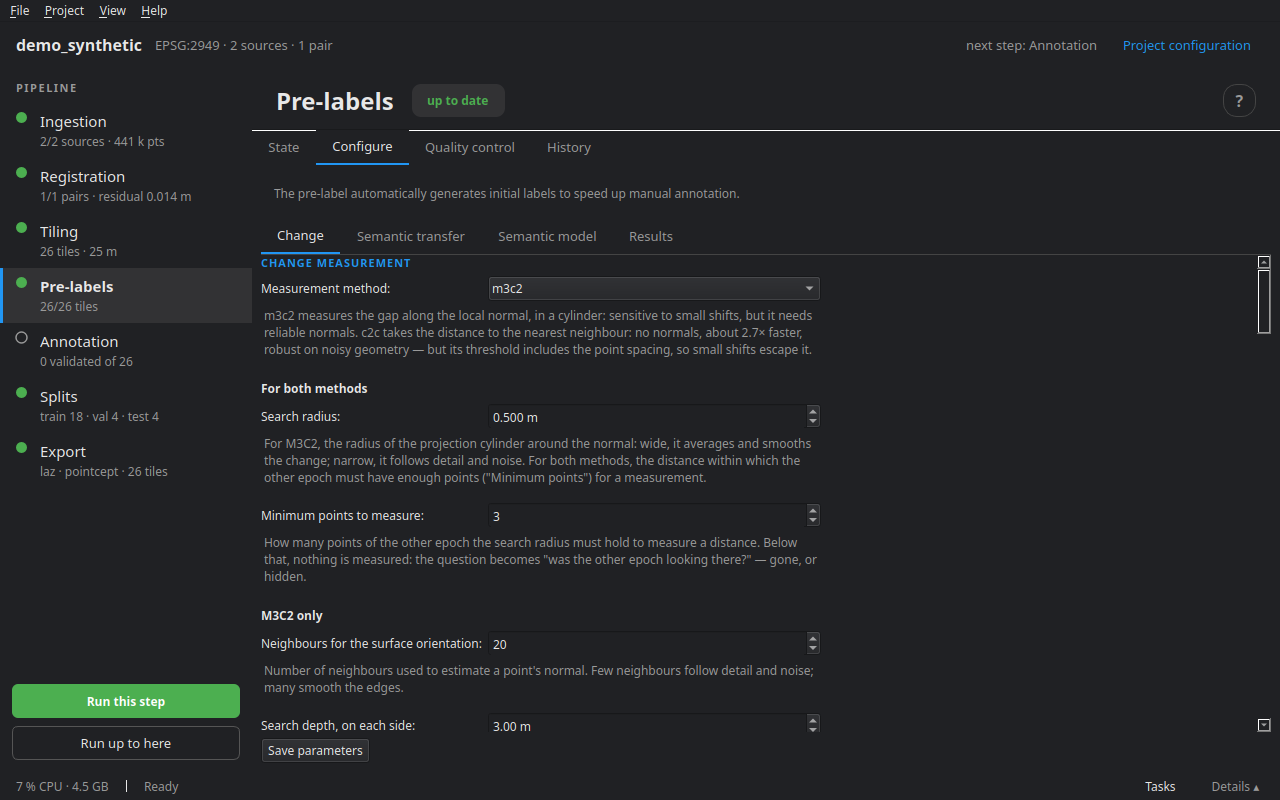
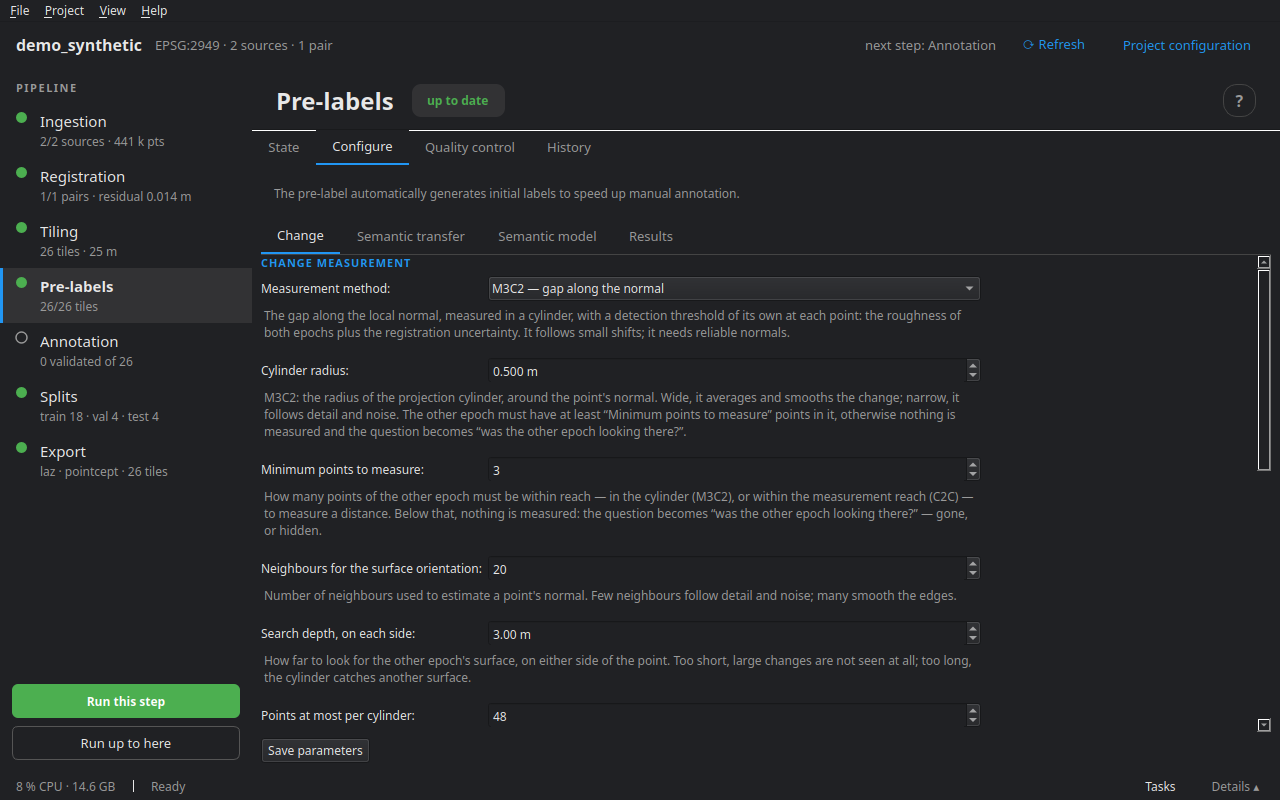
cdforge 0.1.6

diff --git a/docs/guide/06_prelabel.md b/docs/guide/06_prelabel.md
@@ -8,7 +8,7 @@ Le détail complet de la décision de changement, réglage par réglage, est dan
 
 Chaque époque est étiquetée à son tour contre l'autre, **avec exactement le même code** : les points de t0 sortent *unchanged*, *removed* ou *unobserved* ; ceux de t1, *unchanged*, *added* ou *unobserved*. Pour un point de l'époque A, face à l'autre époque B :
 
-1. **Mesurer** — B a-t-il au moins `min_pts` points en face, dans le rayon de recherche ?
+1. **Mesurer** — B a-t-il au moins `min_pts` points en face : dans le cylindre du point (M3C2), ou à portée de la mesure (C2C) ?
 2. Si oui, **la distance décide** : au-dessus du seuil, le point a changé (*added* ou *removed*) ; en dessous, il est *unchanged*.
 3. Si non, la question devient **« B regardait-il cet endroit ? »** — oui : l'objet a disparu (ou est apparu) ; non : *unobserved*, un angle mort où rien n'est décidable.
 4. **Nettoyage** — un amas de points changés plus petit que `min_cluster` est remis à *unchanged* : un vrai changement a une étendue.
@@ -19,7 +19,7 @@ Chaque époque est étiquetée à son tour contre l'autre, **avec exactement le 
 
 **M3C2** (par défaut) mesure l'écart le long de la normale locale, dans un cylindre, et calcule un **seuil de détection par point** (LoD95) à partir de la rugosité des deux nuages et de l'erreur de recalage. Sensible aux petits déplacements, il lui faut des normales fiables. La règle **même surface** ne garde, dans le cylindre d'un point plan, que les voisins orientés comme lui : le cylindre d'un point de sol n'attrape plus le mur voisin.
 
-**C2C** prend la distance au plus proche voisin : pas de normales, environ 2,7 fois plus rapide, robuste sur une géométrie bruitée ou éparse. Son seuil, en automatique, vaut 1,96 × l'erreur de recalage **plus l'espacement des points** — deux relevés d'une même surface ne tombent jamais pile l'un sur l'autre — donc les petits déplacements lui échappent. On peut aussi le **fixer à la main**.
+**C2C** prend la distance au plus proche voisin : pas de normales, environ 2,7 fois plus rapide, robuste sur une géométrie bruitée ou éparse. Son seuil, en automatique, vaut 1,96 × l'erreur de recalage **plus l'espacement des points** — deux relevés d'une même surface ne tombent jamais pile l'un sur l'autre — donc les petits déplacements lui échappent. On peut aussi le **fixer à la main**. La distance mesurée ne dépasse jamais la **portée de la mesure** — au-delà, rien n'est mesuré, et la couverture ou les rayons répondent : un seuil égal ou supérieur à la portée n'est donc jamais franchi, et le formulaire le signale.
 
 ### « B regardait-il cet endroit ? »
 
@@ -45,19 +45,22 @@ Quatre sous-onglets.
 
 **Changement**
 
-- *Mesure du changement* : la méthode, puis trois groupes — **pour les deux méthodes** (rayon de recherche, points minimum pour mesurer), **M3C2 seulement** (voisins pour l'orientation de la surface, profondeur de recherche, points au plus par cylindre, même surface : angle et planéité), **C2C seulement** (seuil de changement, auto ou fixé). Ce qui ne sert pas à la méthode choisie est grisé.
-- *Ce que l'autre époque observait* : les trois portions de la couverture, puis les rayons — quand en lancer, taille des voxels, points de vue essayés et leur écart, portée, ce qu'on ignore autour du capteur et autour du point, ce que les rayons ont le droit de changer.
-- *Nettoyage* : plus petit changement gardé, distance de regroupement.
-- *Incertitude du recalage* : la NMAD du recalage (auto) ou une valeur.
+- *Mesure du changement* : la méthode, avec ce qu'elle mesure, puis **seulement ses réglages** — le rayon du cylindre (M3C2) ou la portée de la mesure (C2C), et les points minimum pour mesurer ; pour M3C2, les voisins pour l'orientation de la surface, la profondeur de recherche, les points au plus par cylindre, et la même surface (angle et planéité) ; pour C2C, le seuil de changement, auto ou fixé. Sous le seuil, ce que vaut l'auto sur ce projet — estimé d'après le recalage et l'espacement des points, puis mesuré au dernier passage — et un avertissement quand le seuil atteint la portée de la mesure. Changer de méthode change les champs affichés ; les valeurs de l'autre méthode restent enregistrées.
 - *Exécution* : le moteur des voisinages (Rust s'il est installé) et le nombre de tuiles en parallèle — des choix de cette exécution, pas des réglages du projet.
+- *Réglages avancés*, repliés par défaut, et dépliés d'office si l'un d'eux s'écarte de sa valeur par défaut ; le bouton du pli dit combien le sont :
+  - *Ce que l'autre époque observait* : les trois portions de la couverture, puis les rayons — quand en lancer, taille des voxels, points de vue essayés et leur écart, portée, ce qu'on ignore autour du capteur et autour du point, ce que les rayons ont le droit de changer. En tête des rayons, les sources qui ont une trajectoire lisible ; sans aucune, les réglages des rayons sont grisés — une trajectoire se déclare par source, dans Ingestion ▸ Catalogue ;
+  - *Nettoyage* : plus petit changement gardé, distance de regroupement ;
+  - *Incertitude du recalage* : la NMAD du recalage (auto — la case dit ce qu'elle vaut sur ce projet) ou une valeur fixée.
 
-Sous chaque champ, ce qu'il fait. **Revenir aux valeurs par défaut** remet l'onglet à zéro sans rien écrire ; **Enregistrer les paramètres** écrit `project.yaml`.
+  Les réglages chiffrés des rayons et du nettoyage portent une case : **décochée**, le champ est grisé et c'est la valeur par défaut qui s'applique ; **cochée**, votre valeur est prise en compte. Décocher remet la valeur par défaut. Les cases de la couverture, elles, gardent leur sens : décochée, la portion ne compte plus.
 
-**Transfert sémantique** — l'activer, et le nombre de voisins du vote.
+Sous chaque champ, ce qu'il fait. **Revenir aux valeurs par défaut** remet l'onglet à zéro sans rien écrire ; **Enregistrer les paramètres** écrit `project.yaml`. Tant que le formulaire diffère du fichier, « Modifications non enregistrées » s'affiche à côté du bouton, et **Exécuter cette étape** les enregistre avant de lancer. Un enregistrement refusé — une valeur invalide — ne lance rien, et la raison s'affiche au même endroit.
 
-**Modèle sémantique** — le modèle géométrique (activer, voisinage, sol, seuils des objets) et le catalogue des modèles d'apprentissage profond (voir [Modèles sémantiques](07_ia.md)).
+**Transfert sémantique** — coupé par défaut : il recopie ce que porte l'autre époque, juste ou faux, sur tout ce qui n'a pas bougé. À rallumer quand une époque porte des labels humains. Le nombre de voisins du vote se grise tant qu'il est coupé.
 
-**Résultats** — ce qu'a produit le dernier pré-label : les labels de changement de t0 et t1, la part décidée par les rayons et par la couverture, et les points où le rayon a conclu autrement que la couverture.
+**Modèle sémantique** — le catalogue des modèles d'apprentissage profond (voir [Modèles sémantiques](07_ia.md)), puis le modèle géométrique : l'activer, et ses **seuils de décision**, repliés et rangés par règle — voisinage, sol, poteau, bâti, végétation, dans l'ordre où les règles s'appliquent. Chacun est expliqué sous son champ et porte une case, comme les réglages avancés ; **Réinitialiser les seuils** les remet aux valeurs par défaut, celles qui ont donné les chiffres annoncés.
+
+**Résultats** — ce qu'a produit le dernier pré-label : la mesure employée et, en C2C, le seuil appliqué (auto : médiane et étendue sur les tuiles ; ou fixé), les labels de changement de t0 et t1, la part décidée par les rayons et par la couverture, et les points où le rayon a conclu autrement que la couverture.
 
 ## L'onglet Contrôle qualité
 

diff --git a/docs/guide/en/06_prelabels.md b/docs/guide/en/06_prelabels.md
@@ -8,7 +8,7 @@ The full detail of the change decision, setting by setting, is in **Help ▸ [Ho
 
 Each epoch is labelled in turn against the other, **with exactly the same code**: t0 points come out *unchanged*, *removed* or *unobserved*; t1 points, *unchanged*, *added* or *unobserved*. For a point of epoch A, facing the other epoch B:
 
-1. **Measure** — does B have at least `min_pts` points facing it, within the search radius?
+1. **Measure** — does B have at least `min_pts` points facing it: in the point's cylinder (M3C2), or within the measurement reach (C2C)?
 2. If so, **the distance decides**: above the threshold, the point has changed (*added* or *removed*); below it, it is *unchanged*.
 3. If not, the question becomes **"was B looking at this spot?"** — yes: the object disappeared (or appeared); no: *unobserved*, a blind spot where nothing can be decided.
 4. **Cleaning** — a cluster of changed points smaller than `min_cluster` is reset to *unchanged*: a real change has an extent.
@@ -19,7 +19,7 @@ Each epoch is labelled in turn against the other, **with exactly the same code**
 
 **M3C2** (default) measures the gap along the local normal, in a cylinder, and computes a **per-point detection threshold** (LoD95) from the roughness of both clouds and the registration error. Sensitive to small displacements, it needs reliable normals. The **same surface** rule keeps, in the cylinder of a planar point, only the neighbours oriented like it: a ground point's cylinder no longer catches the neighbouring wall.
 
-**C2C** takes the distance to the nearest neighbour: no normals, about 2.7 times faster, robust on noisy or sparse geometry. On auto, its threshold is 1.96 × the registration error **plus the point spacing** — two surveys of the same surface never land exactly on top of each other — so small displacements escape it. It can also be **set by hand**.
+**C2C** takes the distance to the nearest neighbour: no normals, about 2.7 times faster, robust on noisy or sparse geometry. On auto, its threshold is 1.96 × the registration error **plus the point spacing** — two surveys of the same surface never land exactly on top of each other — so small displacements escape it. It can also be **set by hand**. The measured distance never exceeds the **measurement reach** — beyond it, nothing is measured, and coverage or rays answer: a threshold equal to or above the reach is therefore never crossed, and the form flags it.
 
 ### "Was B looking at this spot?"
 
@@ -45,19 +45,22 @@ Four sub-tabs.
 
 **Change**
 
-- *Change measurement*: the method, then three groups — **for both methods** (search radius, minimum points to measure), **M3C2 only** (neighbours for the surface orientation, search depth, maximum points per cylinder, same surface: angle and planarity), **C2C only** (change threshold, auto or set). What does not apply to the chosen method is greyed out.
-- *What the other epoch observed*: the three parts of coverage, then rays — when to cast them, voxel size, viewpoints tried and their spacing, range, what to ignore around the sensor and around the point, what rays are allowed to change.
-- *Cleaning*: smallest change kept, clustering distance.
-- *Registration uncertainty*: the registration NMAD (auto) or a value.
+- *Change measurement*: the method, with what it measures, then **only its settings** — the cylinder radius (M3C2) or the measurement reach (C2C), and the minimum points to measure; for M3C2, the neighbours for the surface orientation, the search depth, the maximum points per cylinder, and the same surface (angle and planarity); for C2C, the change threshold, auto or set. Under the threshold, what auto is worth on this project — estimated from the registration and the point spacing, then measured on the last run — and a warning when the threshold reaches the measurement reach. Switching methods switches the fields shown; the other method's values stay saved.
 - *Execution*: the neighbourhood engine (Rust when installed) and the number of tiles in parallel — choices for this run, not project settings.
+- *Advanced settings*, folded by default, and unfolded on their own when one of them differs from its default; the fold's button says how many do:
+  - *What the other epoch observed*: the three parts of coverage, then rays — when to cast them, voxel size, viewpoints tried and their spacing, range, what to ignore around the sensor and around the point, what rays are allowed to change. At the top of the rays, the sources that have a readable trajectory; with none, the ray settings are greyed out — a trajectory is declared per source, in Ingestion ▸ Catalogue;
+  - *Cleaning*: smallest change kept, clustering distance;
+  - *Registration uncertainty*: the registration NMAD (auto — the box says what it is worth on this project) or a fixed value.
 
-Under each field, what it does. **Restore defaults** resets the tab without writing anything; **Save parameters** writes `project.yaml`.
+  The numeric settings for rays and cleaning have a box: **unchecked**, the field is greyed out and the default value applies; **checked**, your value is used. Unchecking restores the default. The coverage boxes keep their meaning: unchecked, that part no longer counts.
 
-**Semantic transfer** — switch it on, and the number of neighbours in the vote.
+Under each field, what it does. **Restore defaults** resets the tab without writing anything; **Save parameters** writes `project.yaml`. While the form differs from the file, “Unsaved changes” shows next to the button, and **Run this step** saves them before running. A refused save — an invalid value — runs nothing, and the reason shows in the same place.
 
-**Semantic model** — the geometric model (enable, neighbourhood, ground, object thresholds) and the catalogue of deep-learning models (see [Semantic models](07_ai.md)).
+**Semantic transfer** — off by default: it copies what the other epoch carries, right or wrong, onto everything that did not move. Switch it back on when an epoch carries human labels. The number of neighbours in the vote is greyed out while it is off.
 
-**Results** — what the last pre-labelling produced: the change labels of t0 and t1, the share decided by rays and by coverage, and the points where the ray concluded otherwise than coverage.
+**Semantic model** — the catalogue of deep-learning models (see [Semantic models](07_ai.md)), then the geometric model: switch it on, and its **decision thresholds**, folded and grouped by rule — neighbourhood, ground, pole, building, vegetation, in the order the rules apply. Each one is explained under its field and has a box, like the advanced settings; **Reset the thresholds** puts back the defaults, the ones behind the figures quoted.
+
+**Results** — what the last pre-labelling produced: the measurement used and, for C2C, the threshold applied (auto: median and range over the tiles; or set), the change labels of t0 and t1, the share decided by rays and by coverage, and the points where the ray concluded otherwise than coverage.
 
 ## The Quality control tab
 

diff --git a/docs/guide/07_ia.md b/docs/guide/07_ia.md
@@ -10,15 +10,31 @@ Le catalogue ne liste que des modèles que cdforge sait **réellement lancer**, 
 
 | Modèle | Groupe | Pour quelles données |
 |---|---|---|
+| **LitePT-S · nuScenes** | prêt à l'emploi | lidar mobile ou embarqué, scène routière : les 16 classes de PTv3 nuScenes, avec un réseau 3,6 fois plus petit |
+| **LitePT-S · Waymo** | prêt à l'emploi | la même scène en 22 classes, les plus fines : tronc et feuillage, panneau et mât, bordure et trottoir |
 | **PTv3 · nuScenes** | prêt à l'emploi | lidar mobile ou embarqué, scène routière : 16 classes — surface roulable, trottoir, terrain, végétation, huit sortes de véhicules, piétons, cônes, barrières, et *manmade* pour tout le bâti |
 | **3dsem · DALES** (avec hauteur au sol) | aérien | lidar aéroporté : 7 classes — conseillé en premier |
 | **3dsem · DALES** | aérien | le même sans la hauteur au-dessus du sol |
 | **3dsem · IEEE** | aérien | aéroporté peu dense : 5 classes, dont l'eau et les ponts |
 | **3dsem · H3D** | aérien | photogrammétrie colorée : 8 classes |
+| **PTv3 · ScanNet**, **LitePT-S · ScanNet** | intérieur | pièces relevées avec la couleur : 20 classes (murs, sol, mobilier) |
+| **PTv3 · ScanNet200** | intérieur | les mêmes pièces en 200 classes d'objets |
+| **PTv3 · S3DIS** | intérieur | bâtiment tertiaire : 13 classes, la structure plus que le mobilier |
+| **LitePT · Structured3D** (S, B, L) | intérieur | logements : 25 classes, plafond et structure compris |
 
 Pour chaque modèle, la fiche dit sur quoi il a été entraîné, ce qu'il sort, son score publié, ses limites sur vos données et quand le choisir. Un modèle entraîné ailleurs se charge avec **Choisir un fichier local…** : son chemin remplace le téléchargement.
 
-**Télécharger les poids** les place dans le cache de cdforge ; **Vérifier l'empreinte** les compare au SHA-256 attendu. Les modèles 3dsem s'installent avec leur propre environnement (**Installer avec 3dsem**).
+**Télécharger les poids** les place dans le cache de cdforge ; **Vérifier l'empreinte** les compare au SHA-256 attendu. Pour LitePT, le premier téléchargement apporte aussi le code du réseau (son propre dépôt, une version épinglée et vérifiée). Les modèles 3dsem s'installent avec leur propre environnement (**Installer avec 3dsem**).
+
+### Les modèles d'intérieur
+
+Ils ont appris sur des pièces, avec la **couleur** et les **normales** par point, et prédisent « mur », « sol », « lit » ou « rideau de douche ». Aucune traduction n'est fournie : c'est au tableau de dire ce que vous en gardez. La case **Afficher aussi les modèles d'intérieur** les retire de la liste.
+
+cdforge prépare leur entrée sur les deux époques d'une tuile à la fois, pour qu'elles soient traitées pareil : un même repère (centre de l'emprise commune, point le plus bas à zéro), des normales estimées sur les points que garde la grille et tournées vers un même point de vue, et la couleur seulement si **les deux** époques en ont — sinon un gris neutre pour les deux, pour que le réseau n'y voie pas un changement de matière.
+
+### Les poids PTv3 publiés
+
+Ils ont été entraînés avant une correction de structure de Pointcept (mars 2024) : chargés tels quels dans un Pointcept récent, ils se chargent sans erreur et prédisent faux. cdforge rend au réseau la structure avec laquelle ils ont appris — sans cela, 46 % d'exactitude au lieu de 97 % sur une pièce ScanNet de démonstration. Des prédictions PTv3 faites avec cdforge avant la version qui porte cette correction sont à refaire.
 
 ## L'harmonisation : des classes du modèle à celles du projet
 
@@ -54,7 +70,7 @@ Dans les deux cas, le modèle, l'empreinte des poids, le schéma et le seuil son
 
 ## Le module IA
 
-**Aide ▸ Module IA…** — un Python autonome qui porte torch, CUDA, Pointcept et SNAP, compilés d'avance : environ 3 Go à télécharger, une fois. Il fait tourner **PTv3** pour le pré-label et **SNAP** pour l'annotation assistée (voir [Annotation](08_annotation.md)), sur une carte NVIDIA. Le reste de cdforge fonctionne sans.
+**Aide ▸ Module IA…** — un Python autonome qui porte torch, CUDA, Pointcept et SNAP, compilés d'avance : environ 3 Go à télécharger, une fois. Il fait tourner **PTv3** et **LitePT** pour le pré-label et **SNAP** pour l'annotation assistée (voir [Annotation](08_annotation.md)), sur une carte NVIDIA. Le reste de cdforge fonctionne sans.
 
 - **Installer** — télécharge et installe ; une installation interrompue reprend là où elle s'est arrêtée.
 - **Depuis un dossier…** — depuis un dossier qui contient `module.json` et ses morceaux (clé USB, téléchargement fait ailleurs).

diff --git a/docs/guide/en/07_ai.md b/docs/guide/en/07_ai.md
@@ -10,15 +10,31 @@ The catalogue only lists models cdforge can **really run**, with published weigh
 
 | Model | Group | For which data |
 |---|---|---|
+| **LitePT-S · nuScenes** | ready to use | mobile or vehicle-mounted lidar, road scene: the 16 classes of PTv3 nuScenes, with a network 3.6 times smaller |
+| **LitePT-S · Waymo** | ready to use | the same scene in 22 classes, the finest: trunk and foliage, sign and pole, curb and sidewalk |
 | **PTv3 · nuScenes** | ready to use | mobile or vehicle-mounted lidar, road scene: 16 classes — driveable surface, sidewalk, terrain, vegetation, eight kinds of vehicles, pedestrians, cones, barriers, and *manmade* for everything built |
 | **3dsem · DALES** (with height above ground) | aerial | airborne lidar: 7 classes — recommended first |
 | **3dsem · DALES** | aerial | the same without height above ground |
 | **3dsem · IEEE** | aerial | sparse airborne lidar: 5 classes, including water and bridges |
 | **3dsem · H3D** | aerial | coloured photogrammetry: 8 classes |
+| **PTv3 · ScanNet**, **LitePT-S · ScanNet** | indoor | rooms captured with colour: 20 classes (walls, floor, furniture) |
+| **PTv3 · ScanNet200** | indoor | the same rooms in 200 object classes |
+| **PTv3 · S3DIS** | indoor | office buildings: 13 classes, structure more than furniture |
+| **LitePT · Structured3D** (S, B, L) | indoor | homes: 25 classes, ceiling and structure included |
 
 For each model, the card says what it was trained on, what it outputs, its published score, its limits on your data and when to choose it. A model trained elsewhere is loaded with **Choose a local file…**: its path replaces the download.
 
-**Download the weights** puts them in the cdforge cache; **Check the fingerprint** compares them to the expected SHA-256. 3dsem models install with their own environment (**Install with 3dsem**).
+**Download the weights** puts them in the cdforge cache; **Check the fingerprint** compares them to the expected SHA-256. For LitePT, the first download also brings the network's code (its own repository, a pinned and verified version). 3dsem models install with their own environment (**Install with 3dsem**).
+
+### Indoor models
+
+They learned on rooms, with per-point **colour** and **normals**, and predict “wall”, “floor”, “bed” or “shower curtain”. No mapping is provided: the table is where you say what you keep. The **Also show indoor models** box removes them from the list.
+
+cdforge prepares their input on both epochs of a tile at once, so that they are treated alike: one frame (centre of the common extent, lowest point at zero), normals estimated on the points the grid keeps and turned towards one viewpoint, and colour only if **both** epochs have it — otherwise a neutral grey for both, so the network does not see a change of material.
+
+### Published PTv3 weights
+
+They were trained before a Pointcept structure fix (March 2024): loaded as they are into a recent Pointcept, they load without error and predict wrong. cdforge gives the network back the structure they learned with — without it, 46 % accuracy instead of 97 % on a demo ScanNet room. PTv3 predictions made with cdforge before the version that carries this fix should be redone.
 
 ## Harmonisation: from the model's classes to the project's
 
@@ -54,7 +70,7 @@ Either way, the model, the weights fingerprint, the scheme and the threshold are
 
 ## The AI module
 
-**Help ▸ AI module…** — a self-contained Python carrying torch, CUDA, Pointcept and SNAP, precompiled: about 3 GB to download, once. It runs **PTv3** for pre-labelling and **SNAP** for assisted annotation (see [Annotation](08_annotation.md)), on an NVIDIA card. The rest of cdforge works without it.
+**Help ▸ AI module…** — a self-contained Python carrying torch, CUDA, Pointcept and SNAP, precompiled: about 3 GB to download, once. It runs **PTv3** and **LitePT** for pre-labelling and **SNAP** for assisted annotation (see [Annotation](08_annotation.md)), on an NVIDIA card. The rest of cdforge works without it.
 
 - **Install** — downloads and installs; an interrupted installation resumes where it stopped.
 - **From a folder…** — from a folder holding `module.json` and its parts (USB stick, download made elsewhere).

diff --git a/docs/guide/02_projet.md b/docs/guide/02_projet.md
@@ -33,7 +33,12 @@ Une source peut n'avoir aucun label : c'est le cas général, et les pré-labels
 
 ### 4. Paires de détection
 
-Les sources qui partagent un site sont appariées d'office : la plus ancienne en **t0**, la plus récente en **t1**. **+ Ajouter une paire manuellement** pour les autres cas. Un projet purement sémantique peut n'avoir aucune paire.
+Les sources qui partagent un site sont appariées d'office : la plus ancienne en **t0**, la plus récente en **t1**. **+ Ajouter une paire manuellement** pour les autres cas, **Retirer la paire sélectionnée** pour en écarter une. Un projet purement sémantique peut n'avoir aucune paire.
+
+La fenêtre **Créer une paire** (la même ici, dans Projet ▸ Paires et dans le Recalage) montre le site, la date et le capteur de chaque source. Elle propose la paire la plus probable, que **⇅** inverse. L'identifiant, nom du dossier de la paire, suit les sources tant qu'on ne le change pas ; la note est libre. Sous les listes, elle vérifie :
+
+- **bloquant** — deux fois la même source, une paire qui existe déjà, un identifiant pris ou qui n'est pas un nom de dossier ;
+- **signalé** — t0 plus récente que t1 (ajouts et retraits seraient échangés), deux sites, deux capteurs (source de faux changements), deux systèmes de coordonnées, des emprises qui se recouvrent peu ou pas. L'emprise vient des en-têtes LAS/LAZ ; pour un autre format, elle n'est pas affichée.
 
 ### 5. Récapitulatif
 
@@ -45,7 +50,7 @@ Le lien **Configuration du projet** de l'en-tête (ou **Projet ▸ Configuration
 
 - **Général** — nom, version du format, CRS, dossier ; la description se modifie ici.
 - **Sources** — la liste des sources ; **Ajouter une source** (mêmes champs que dans l'assistant, avec des chemins de fichiers séparés par des virgules) et **Retirer**.
-- **Paires** — **Créer une paire** (t0, t1) et **Retirer la paire sélectionnée**.
+- **Paires** — **Créer une paire** et **Retirer la paire sélectionnée…**. Retirer enlève la paire du projet, sans toucher aux sources ; ses fichiers restent sur le disque, et recréer une paire du même nom les retrouve. Deux cases les effacent aussi : ses résultats calculés (recalage, inférence, export), et ses tuiles. La fenêtre compte les tuiles annotées ou relues, dont le travail serait perdu, et refuse d'effacer des tuiles ouvertes dans l'annotateur.
 - **Classes** — la liste de classes sémantiques du projet (ci-dessous).
 - **Classes de changement** — leurs couleurs et descriptions (ci-dessous).
 - **Paramètres** — les réglages de chaque étape, en lecture seule : ils se modifient dans l'onglet **Configurer** de chaque étape, ou dans l'onglet YAML.

diff --git a/docs/guide/en/02_project.md b/docs/guide/en/02_project.md
@@ -33,7 +33,12 @@ A source may have no labels at all: that is the common case, and pre-labels are 
 
 ### 4. Detection pairs
 
-Sources that share a site are paired automatically: the older as **t0**, the more recent as **t1**. **+ Add a pair manually** for the other cases. A purely semantic project may have no pair at all.
+Sources that share a site are paired automatically: the older as **t0**, the more recent as **t1**. **+ Add a pair manually** for the other cases, **Remove the selected pair** to drop one. A purely semantic project may have no pair at all.
+
+The **Create a pair** window (the same here, in Project ▸ Pairs and in Registration) shows each source's site, date and sensor. It proposes the most likely pair, which **⇅** swaps. The identifier, the name of the pair's folder, follows the sources until you change it; the note is free. Below the lists, it checks:
+
+- **blocking** — the same source twice, a pair that already exists, an identifier that is taken or is not a folder name;
+- **flagged** — t0 newer than t1 (additions and removals would be swapped), two sites, two sensors (a source of false changes), two coordinate systems, extents that overlap little or not at all. The extent comes from the LAS/LAZ headers; for another format it is not shown.
 
 ### 5. Summary
 
@@ -45,7 +50,7 @@ The **Project configuration** link in the header (or **Project ▸ Project confi
 
 - **General** — name, format version, CRS, folder; the description is edited here.
 - **Sources** — the list of sources; **Add a source** (same fields as in the wizard, with file paths separated by commas) and **Remove**.
-- **Pairs** — **Create a pair** (t0, t1) and **Remove the selected pair**.
+- **Pairs** — **Create a pair** and **Remove the selected pair…**. Removing takes the pair out of the project without touching the sources; its files stay on disk, and re-creating a pair with the same name finds them again. Two boxes delete them too: its computed results (registration, inference, export), and its tiles. The window counts the annotated or reviewed tiles, whose work would be lost, and refuses to delete tiles open in the annotator.
 - **Classes** — the project's semantic class list (below).
 - **Change classes** — their colours and descriptions (below).
 - **Parameters** — the settings of every stage, read-only: they are changed in each stage's **Configure** tab, or in the YAML tab.

diff --git a/THIRD_PARTY.md b/THIRD_PARTY.md
@@ -26,7 +26,7 @@ L'application et le module IA incluent les composants ci-dessous, chacun sous sa
 | colorama | 0.4.6 | BSD License |
 | contourpy | 1.4.0 | BSD-3-Clause |
 | cycler | 0.12.1 | BSD License |
-| cyclopts | 5.3.2 | Apache-2.0 |
+| cyclopts | 5.3.3 | Apache-2.0 |
 | docstring_parser | 0.18.0 | MIT License |
 | fonttools | 4.68.0 | MIT |
 | idna | 3.20 | BSD-3-Clause |
@@ -40,20 +40,22 @@ L'application et le module IA incluent les composants ci-dessous, chacun sous sa
 | packaging | 26.3 | Apache-2.0 OR BSD-2-Clause |
 | pillow | 13.0.0 | MIT-CMU |
 | pip | 26.2.2 | MIT |
-| platformdirs | 4.13.7 | MIT |
+| platformdirs | 4.14.3 | MIT |
 | pooch | 1.9.0 | BSD-3-Clause |
 | psutil | 7.2.2 | BSD-3-Clause |
-| pydantic | 2.14.1 | MIT |
-| pydantic_core | 2.50.1 | MIT |
+| pydantic | 2.14.2 | MIT |
+| pydantic_core | 2.50.2 | MIT |
+| pye57 | 0.4.19 | MIT License |
 | Pygments | 2.21.0 | BSD-2-Clause |
 | pyparsing | 3.3.3 | MIT |
 | pyproj | 3.8.0 | MIT |
 | pyqtgraph | 0.14.0 | MIT |
+| pyquaternion | 0.9.9 | MIT License |
 | PySide6_Essentials | 6.12.0 | LGPL-3.0-only OR GPL-2.0-only OR GPL-3.0-only |
-| python-dateutil | 3.0.0 | BSD License, Apache Software License |
-| pyvista | 0.49.1 | MIT |
+| python-dateutil | 4.0.0 | BSD-3-Clause |
+| pyvista | 0.49.2 | MIT |
 | pyvista-validation | 0.2.2 | MIT |
-| pyvistaqt | 0.13.1 | MIT License |
+| pyvistaqt | 0.13.2 | MIT License |
 | PyYAML | 6.0.3 | MIT License |
 | QtPy | 2.4.3 | MIT License |
 | requests | 2.34.2 | Apache Software License |
@@ -63,7 +65,6 @@ L'application et le module IA incluent les composants ci-dessous, chacun sous sa
 | scooby | 0.12.1 | MIT |
 | shellingham | 1.5.4 | ISC License (ISCL) |
 | shiboken6 | 6.12.0 | LGPL-3.0-only OR GPL-2.0-only OR GPL-3.0-only |
-| six | 1.17.0 | MIT License |
 | threadpoolctl | 3.7.0 | BSD-3-Clause |
 | typer | 0.27.3 | MIT |
 | typing-inspection | 0.4.4 | MIT |

diff --git a/docs/guide/01_prise_en_main.md b/docs/guide/01_prise_en_main.md
@@ -61,7 +61,7 @@ Le bouton **?**, à droite du titre, ouvre le chapitre de ce guide consacré à 
 
 **Projet** — Exécuter tout le pipeline (l'équivalent de `cdforge run` : les étapes s'enchaînent, celles qui sont à jour sont sautées) ; Rafraîchir l'état (F5) ; Configuration du projet ; Classes du projet… ; Classes de changement….
 
-**Affichage** — thème sombre ou clair ; panneau de détails (Ctrl+J) ; panneau des tâches (Ctrl+T) ; détacher les tâches dans une fenêtre ; **Langue / Language** : le studio propose de redémarrer dans la langue choisie, et rouvre le même projet.
+**Affichage** — **Actualiser** (F5, ou **⟳ Actualiser** en haut à droite) relit le projet sur le disque après un travail fait ailleurs (ligne de commande, annotateur, project.yaml modifié à la main), sans toucher aux réglages en cours d'édition ; thème sombre ou clair ; panneau de détails (Ctrl+J), dont la hauteur se règle à la souris ; panneau des tâches (Ctrl+T) ; détacher les tâches ou les détails dans une fenêtre (aussi le bouton ⧉ du panneau de détails ; fermer sa fenêtre le rattache) ; **Langue / Language** : le studio propose de redémarrer dans la langue choisie, et rouvre le même projet.
 
 **Aide** — Guide de l'utilisateur (F1), Démos interactives, les documents d'explication (comment le pré-label décide d'un changement, l'assistance sémantique SNAP, annoter les deux dates), Module IA…, Rechercher des mises à jour…, Rechercher les mises à jour au démarrage, À propos (qui donne la version).
 

diff --git a/docs/guide/en/01_getting_started.md b/docs/guide/en/01_getting_started.md
@@ -61,7 +61,7 @@ The **?** button, right of the title, opens this guide's chapter on the stage.
 
 **Project** — Run the whole pipeline (the same as `cdforge run`: the stages follow one another, those already up to date are skipped); Refresh the state (F5); Project configuration; Project classes…; Change classes….
 
-**View** — dark or light theme; details panel (Ctrl+J); tasks panel (Ctrl+T); detach the tasks into a window; **Langue / Language**: the studio offers to restart in the chosen language, and reopens the same project.
+**View** — **Refresh** (F5, or **⟳ Refresh** at the top right) re-reads the project from disk after work done elsewhere (command line, annotator, project.yaml edited by hand), without touching the settings being edited; dark or light theme; details panel (Ctrl+J), whose height is set with the mouse; tasks panel (Ctrl+T); detach the tasks or the details into a window (also the panel's ⧉ button; closing its window puts it back); **Langue / Language**: the studio offers to restart in the chosen language, and reopens the same project.
 
 **Help** — User guide (F1), Interactive demos, the explanation documents (how pre-labelling decides on a change, SNAP semantic assistance, annotating both dates), AI module…, Check for updates…, Check for updates at startup, About (which gives the version).
 

diff --git a/docs/guide/08_annotation.md b/docs/guide/08_annotation.md
@@ -14,7 +14,7 @@ Chaque modification est enregistrée tuile par tuile au fil de l'édition : un a
 
 ## Étiqueter
 
-**Outil de sélection** — polygone (Ctrl+1), lasso (Ctrl+2), pinceau (Ctrl+3), objet connexe (Ctrl+4), même classe (Ctrl+5), aucun — déplacer la vue (Ctrl+6). Le **mode** dit ce que fait un geste : **Remplacer**, **Ajouter** ou **Retirer** la sélection ; **E** bascule en retrait et revient.
+**Outil de sélection** — polygone (Ctrl+1), lasso (Ctrl+2), pinceau (Ctrl+3), objet connexe (Ctrl+4), même classe (Ctrl+5), aucun — déplacer la vue (Ctrl+6). Le **mode**, dans la barre au-dessus des vues, dit ce que fait un geste : **Remplacer**, **Ajouter** ou **Retirer** la sélection ; **E** bascule en retrait et revient.
 
 **Cible de l'édition** — la **couche** (sémantique ou changement, **L** pour basculer) et l'**époque**.
 

diff --git a/docs/guide/en/08_annotation.md b/docs/guide/en/08_annotation.md
@@ -14,7 +14,7 @@ Every change is saved tile by tile as you edit: a crash only loses the gesture i
 
 ## Label
 
-**Selection tool** — polygon (Ctrl+1), lasso (Ctrl+2), brush (Ctrl+3), connected object (Ctrl+4), same class (Ctrl+5), none — move the view (Ctrl+6). The **mode** says what a gesture does: **Replace**, **Add** to or **Remove** from the selection; **E** toggles removal and back.
+**Selection tool** — polygon (Ctrl+1), lasso (Ctrl+2), brush (Ctrl+3), connected object (Ctrl+4), same class (Ctrl+5), none — move the view (Ctrl+6). The **mode**, in the bar above the views, says what a gesture does: **Replace**, **Add** to or **Remove** from the selection; **E** toggles removal and back.
 
 **Edit target** — the **layer** (semantic or change, **L** to switch) and the **epoch**.
 

diff --git a/docs/guide/05_tuilage.md b/docs/guide/05_tuilage.md
@@ -35,7 +35,7 @@ Chaque point reçoit à l'ingestion un identifiant stable. Les labels posés à 
 
 ![La carte des tuiles](img/tile_map.png)
 
-La grille vue de dessus, une case par tuile, et un tableau à côté (tuile, paire, statut, split, taux de changement).
+La grille vue de dessus, une case par tuile, et un tableau à côté (tuile, paire, statut, split, taux de changement). Elle n'attend pas le pré-label : les tuiles d'une paire y paraissent dès la fin de son tuilage, même lancé en ligne de commande.
 
 - **Colorier par** : statut (tuilé, pré-labellisé, en cours, validé, rejeté), split, taux de changement (part des points du cœur marqués changés), incertitude (1 − confiance moyenne) ou nombre de points.
 - **Filtres** : paire, statut, split.
